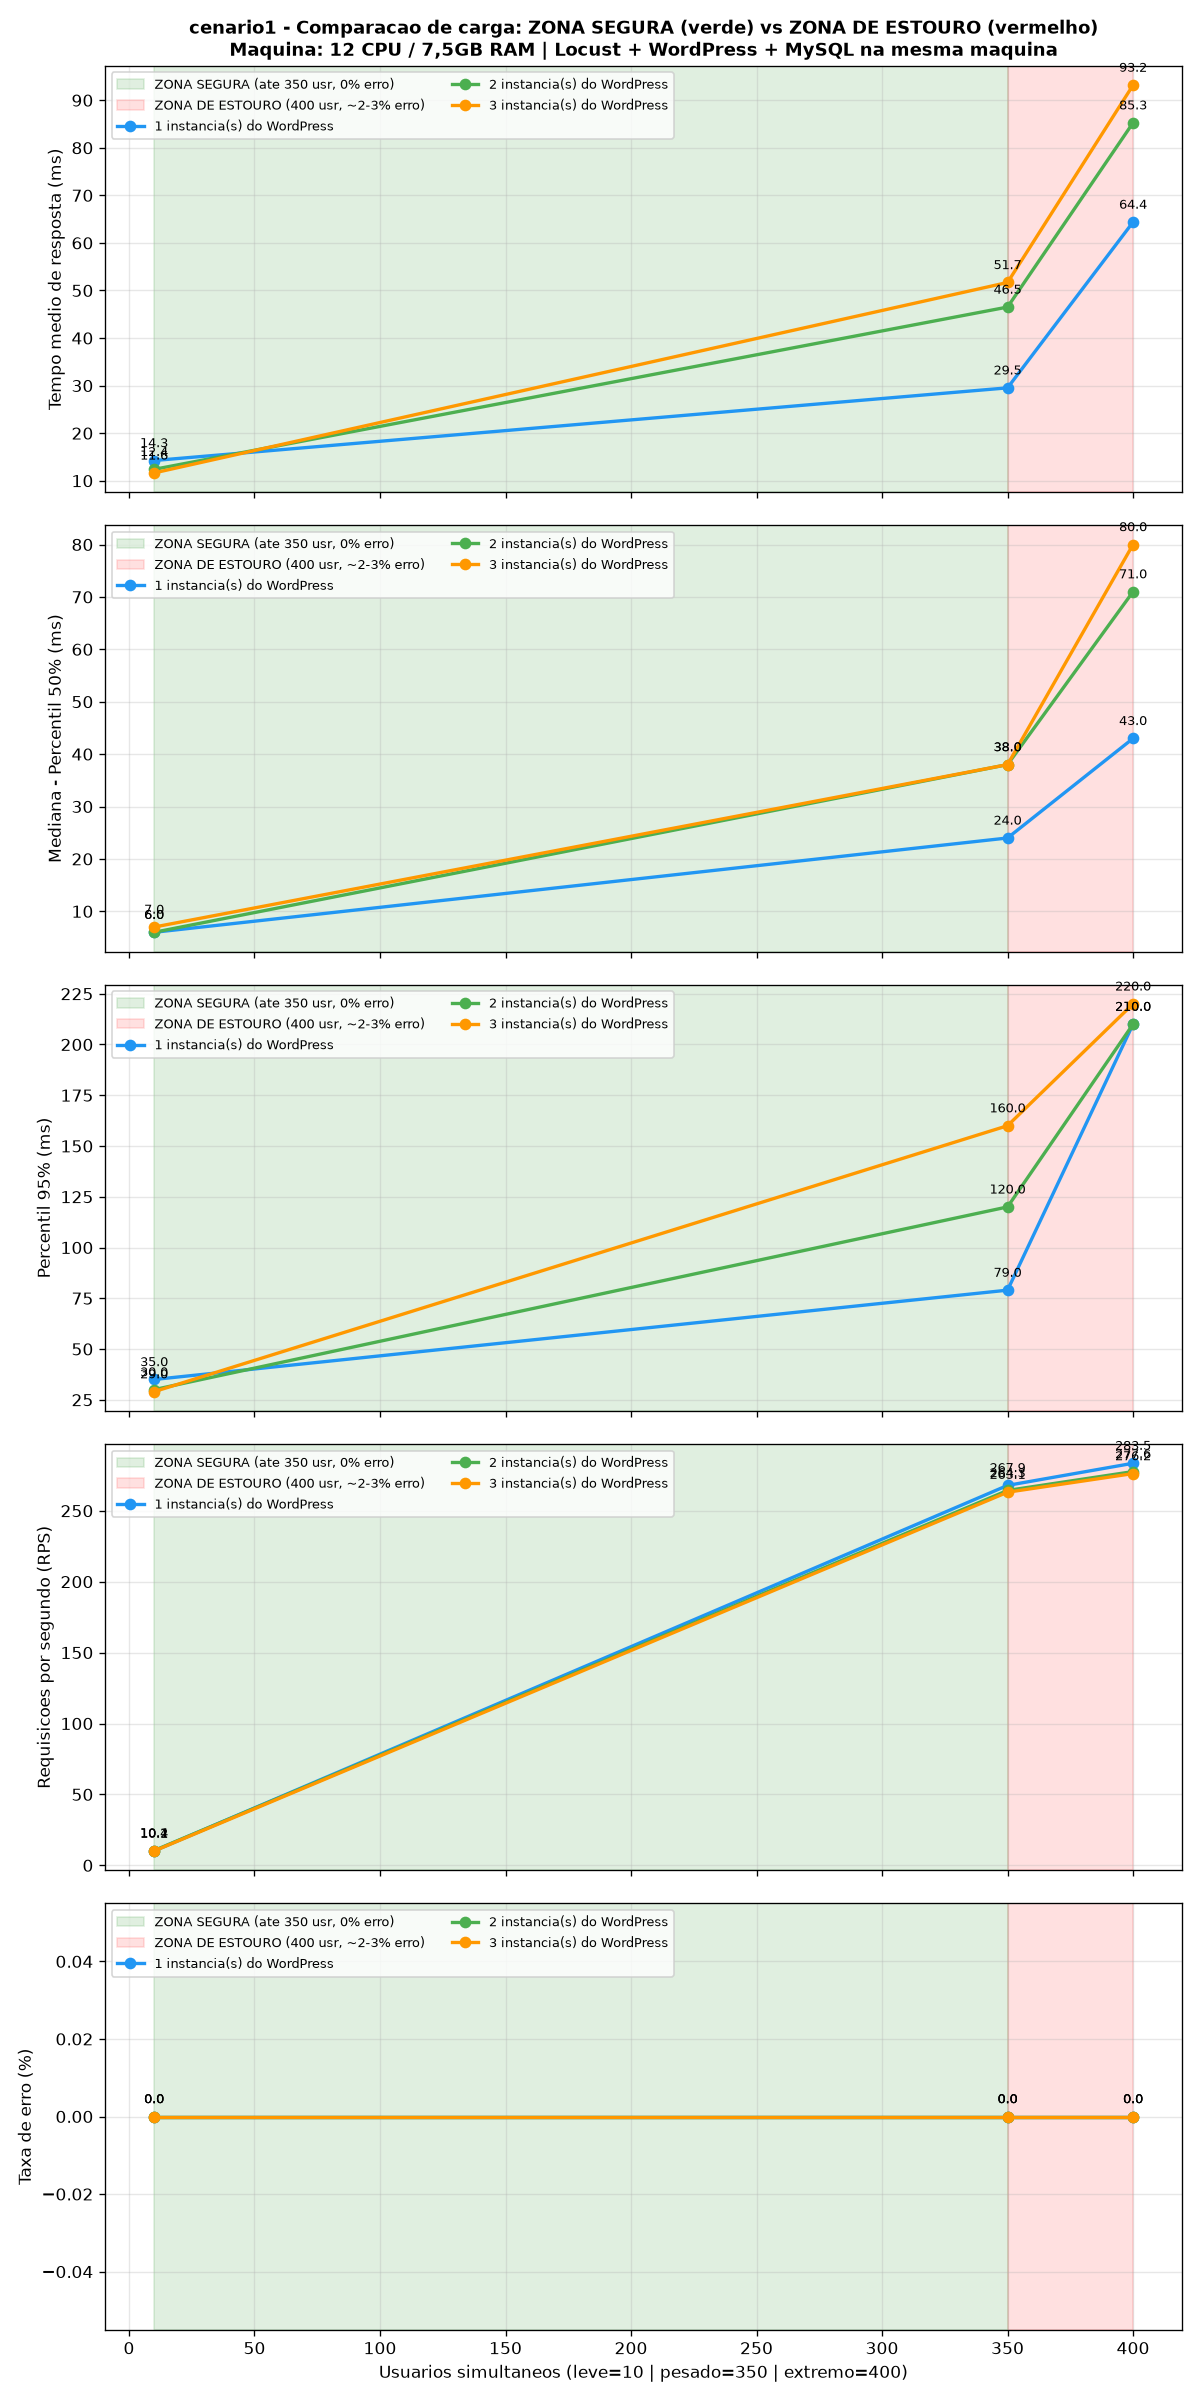
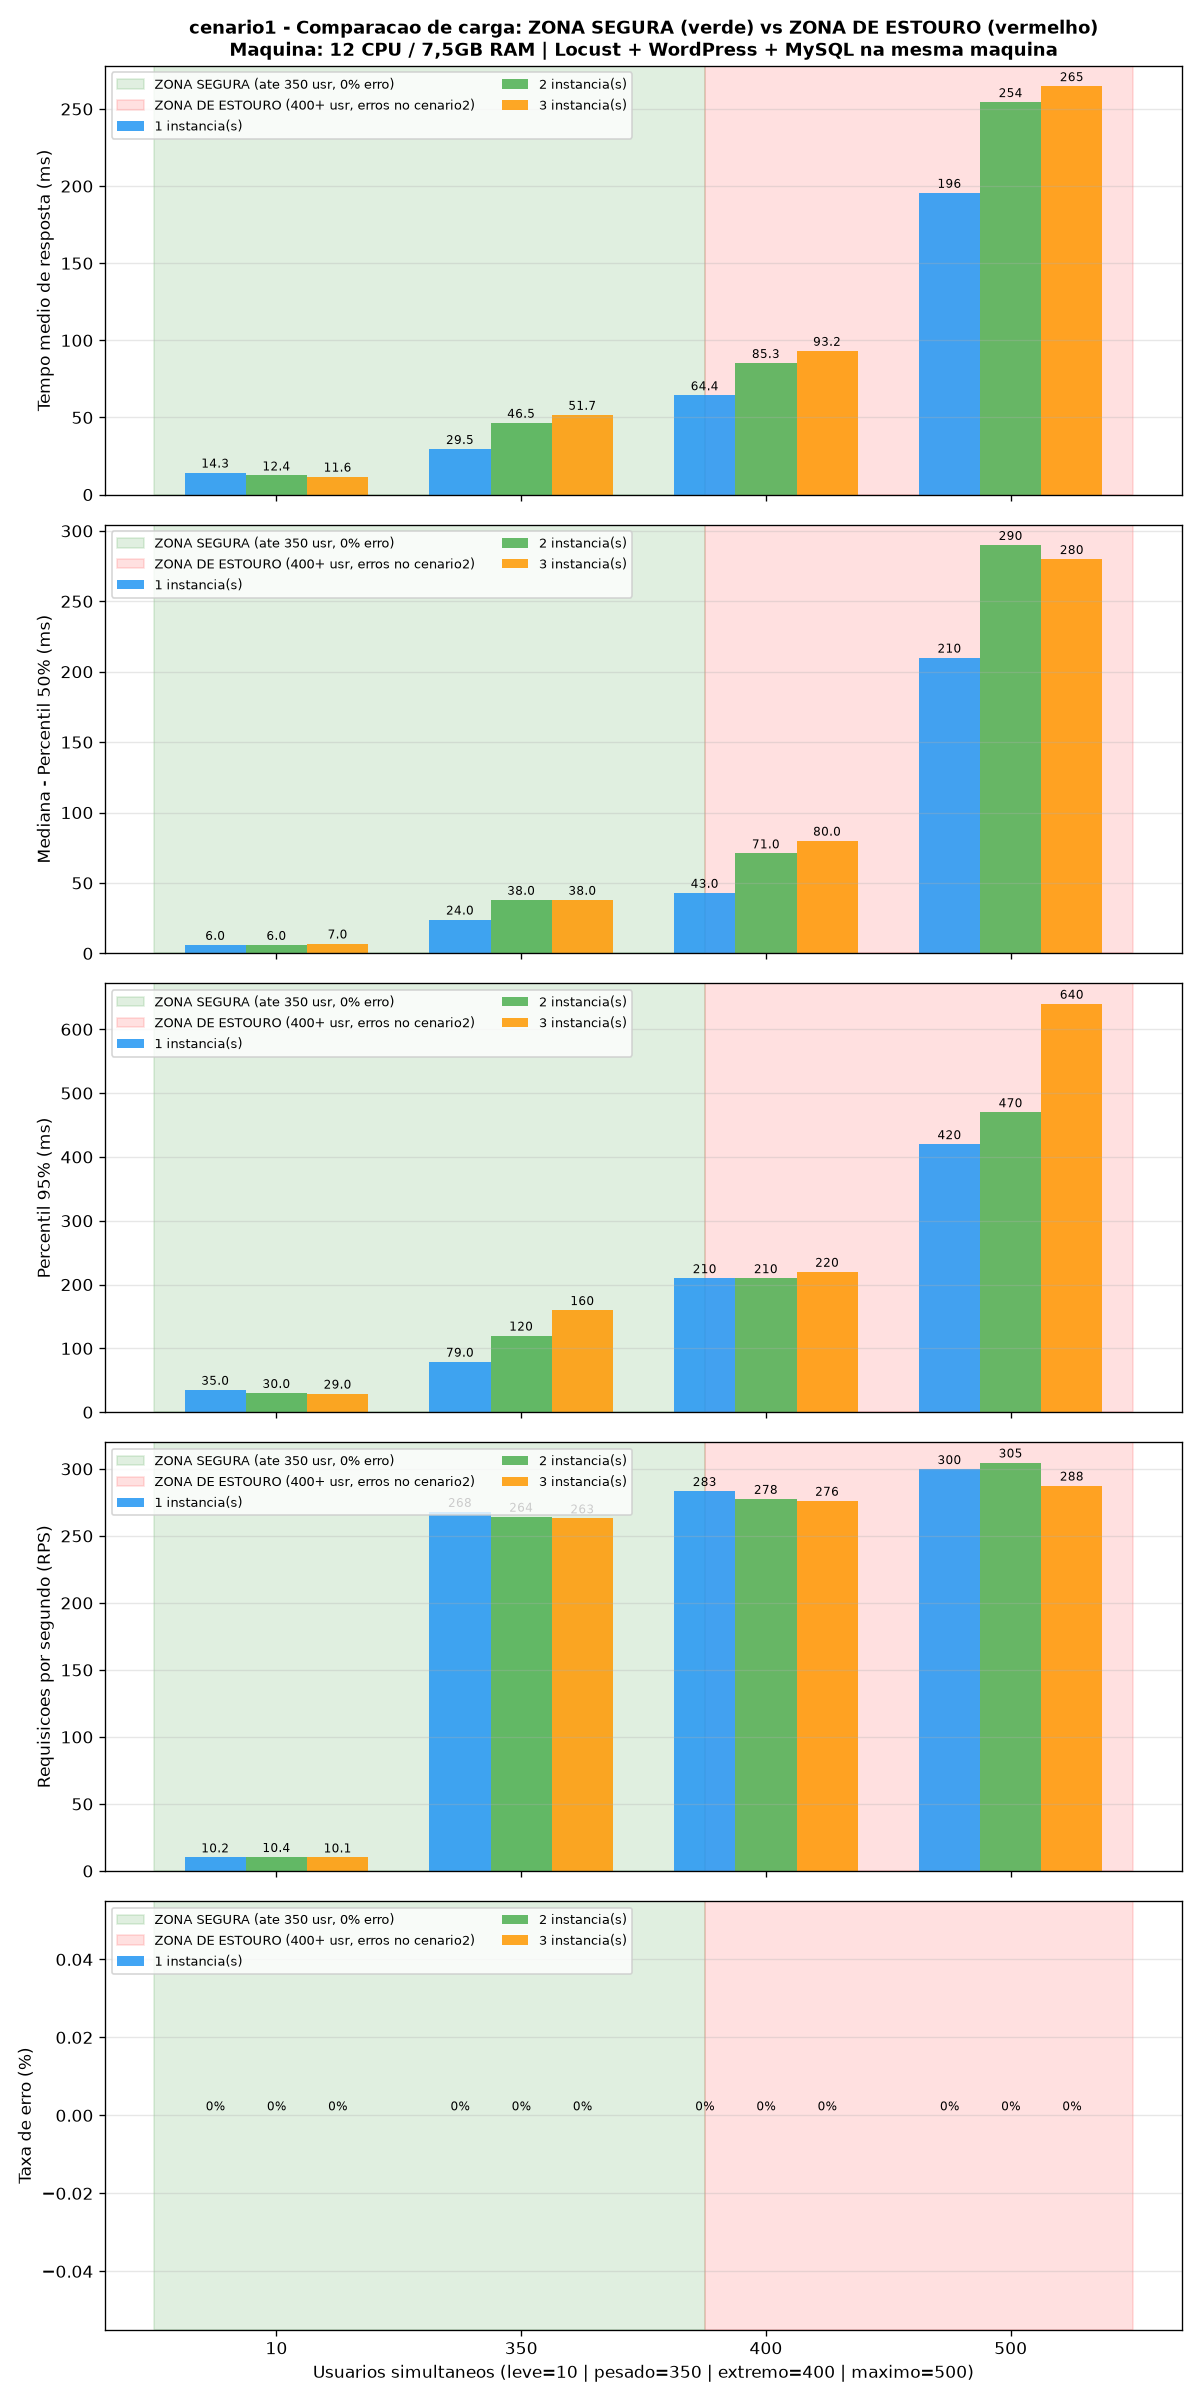
mudanças nos graficos

diff --git a/trabalho3/gerar_graficos_comparacao.py b/trabalho3/gerar_graficos_comparacao.py
@@ -26,7 +26,7 @@ AQUI = os.path.dirname(os.path.abspath(__file__))
 PASTA_PADRAO = os.path.join(AQUI, "locust", "resultados")
 
 LIMITE_SEGURO = 350   # usuarios com 0 erro
-LIMITE_ESTOURO = 400  # usuarios com erro (cenario2 ~2-3%)
+LIMITE_ESTOURO = 400  # usuarios onde cenario2 comeca a dar erro
 
 METRICAS = [
     ("avg_ms", "Tempo medio de resposta (ms)"),
@@ -98,28 +98,48 @@ def plotar_comparacao(cenario, pontos, pasta_saida, plt):
 
     fig, eixos = plt.subplots(5, 1, figsize=(10, 20), sharex=True)
 
-    for ax, (chave, rotulo) in zip(eixos, METRICAS):
-        # faixas de zona
-        ax.axvspan(min(usuarios), LIMITE_SEGURO, alpha=0.12, color="green",
-                   label=f"ZONA SEGURA (ate {LIMITE_SEGURO} usr, 0% erro)")
-        ax.axvspan(LIMITE_SEGURO, max(usuarios), alpha=0.12, color="red",
-                   label=f"ZONA DE ESTOURO ({LIMITE_ESTOURO} usr, ~2-3% erro)")
+    # posicoes categoricas para as barras (0, 1, 2...)
+    pos = list(range(len(usuarios)))
 
-        for inst in instancias:
+    for idx, (ax, (chave, rotulo)) in enumerate(zip(eixos, METRICAS)):
+        # faixas de zona (baseadas no indice)
+        meio = (pos[0] + pos[-1]) / 2
+        limite_idx = pos[-1] - 0.5 if LIMITE_SEGURO >= usuarios[-2] else pos[0] + 0.5
+        ax.axvspan(pos[0] - 0.5, meio + 0.25, alpha=0.12, color="green",
+                   label=f"ZONA SEGURA (ate {LIMITE_SEGURO} usr, 0% erro)")
+        ax.axvspan(meio + 0.25, pos[-1] + 0.5, alpha=0.12, color="red",
+                   label=f"ZONA DE ESTOURO ({LIMITE_ESTOURO}+ usr, erros no cenario2)")
+
+        # BARRAS AGRUPADAS
+        largura = 0.25
+        for j, inst in enumerate(instancias):
             ys = serie(inst, chave)
-            ax.plot(usuarios, ys, marker="o", linewidth=2, color=cores.get(inst, "#9C27B0"),
-                    label=f"{inst} instancia(s) do WordPress")
-            # anota valor em cada ponto
-            for x, y in zip(usuarios, ys):
-                if not np.isnan(y):
-                    ax.annotate(f"{y:.1f}", (x, y), textcoords="offset points",
-                                xytext=(0, 8), ha="center", fontsize=8)
+            desloc = (j - 1) * largura
+            barras = ax.bar([p + desloc for p in pos], ys, width=largura,
+                            color=cores.get(inst, "#9C27B0"), alpha=0.85,
+                            label=f"{inst} instancia(s)")
+            for bar, y in zip(barras, ys):
+                if np.isnan(y):
+                    continue
+                if chave == "erro_pct":
+                    txt = f"{y:.1f}%" if y > 0 else "0%"
+                elif y >= 100:
+                    txt = f"{y:.0f}"
+                else:
+                    txt = f"{y:.1f}"
+                ax.annotate(txt, (bar.get_x() + bar.get_width()/2, bar.get_height()),
+                            textcoords="offset points", xytext=(0, 3),
+                            ha="center", fontsize=7,
+                            fontweight="bold" if (chave == "erro_pct" and y > 0) else "normal",
+                            color="#D32F2F" if (chave == "erro_pct" and y > 0) else "black")
+        ax.set_xticks(pos)
+        ax.set_xticklabels([f"{u}" for u in usuarios])
 
         ax.set_ylabel(rotulo, fontsize=10)
-        ax.grid(True, alpha=0.3)
+        ax.grid(True, alpha=0.3, axis="y")
         ax.legend(loc="upper left", fontsize=8, ncol=2)
 
-    eixos[-1].set_xlabel("Usuarios simultaneos (leve=10 | pesado=350 | extremo=400)", fontsize=10)
+    eixos[-1].set_xlabel("Usuarios simultaneos (leve=10 | pesado=350 | extremo=400 | maximo=500)", fontsize=10)
     eixos[0].set_title(
         f"{cenario} - Comparacao de carga: ZONA SEGURA (verde) vs ZONA DE ESTOURO (vermelho)\n"
         f"Maquina: 12 CPU / 7,5GB RAM | Locust + WordPress + MySQL na mesma maquina",
